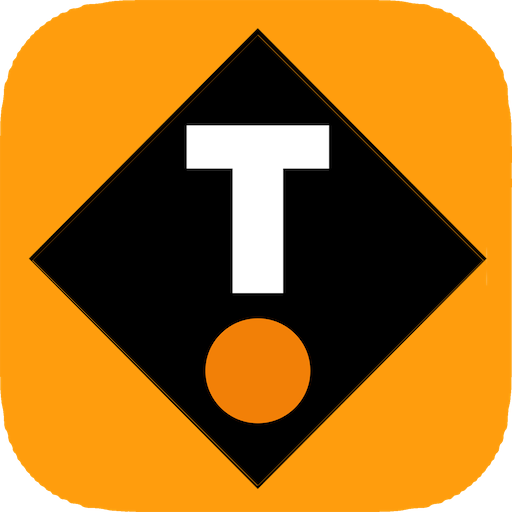
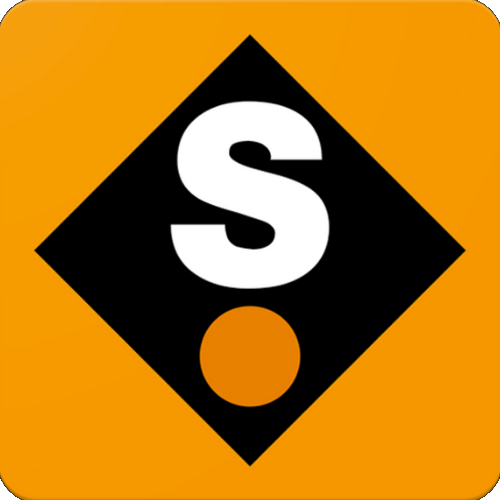
edit index

diff --git a/acl_project/index.html b/acl_project/index.html
@@ -5,7 +5,7 @@
       <meta charset="UTF-8">
       <meta name="viewport" content="width=device-width, initial-scale=1">
       <title>Assumption College Lampang</title>
-      <link rel="icon" type="image/png" sizes="25×25" href="image/acl_logo.png">
+      <link rel="icon" type="image/png" sizes="25×25" href="image/logo_nav/acl_logo.png">
       <link rel="stylesheet" href="bootstrap-5.0.2/dist/css/bootstrap.min.css">
       <!-- <link rel="stylesheet" href="css/buttom.css"> -->
       <link rel="stylesheet" href="css/tab_menu.css">
@@ -130,14 +130,19 @@
             </div>
             <div class="carousel-inner">
               <div class="carousel-item active">
-                <a href="https://www.acl.ac.th/about-acl_brother.html">
+                <a href="https://swis.acl.ac.th/html_edu/cgi-bin/main_php/print_news.php?id_news=2908" target="_blank">
                   <img src="image/slider/20211004.jpeg" class="d-block w-100" >
                 </a>
               </div>
               <div class="carousel-item">
-                <img src="image/slider/20211005.jpeg" class="d-block w-100">
-                <div class="carousel-caption d-none d-md-block">
-                  <h5 class="content-slide">ติวออนไลน์เพื่อสอบตรงเข้าสู่มหาวิทยาลัยในฝัน ในวิชา GAT PAT SAT</h5>
+                <a href="https://swis.acl.ac.th/html_edu/cgi-bin/main_php/print_news.php?id_news=2908" target="_blank">
+                  <img src="image/slider/20211005.jpeg" class="d-block w-100">
+                </a>
+                <div class="carousel-caption d-md-block">
+                  <span class="content-slide">
+                    ติวออนไลน์เพื่อสอบตรงเข้าสู่มหาวิทยาลัยในฝัน ในวิชา GAT PAT SAT
+                    <a href="https://swis.acl.ac.th/html_edu/cgi-bin/main_php/print_news.php?id_news=2908" target="_blank">[ดูรายละเอียด]</a>
+                  </span>
                 </div>
               </div>
               <div class="carousel-item">
@@ -153,10 +158,26 @@
                 <img src="image/slider/20210527.jpeg" class="d-block w-100">
               </div>
               <div class="carousel-item">
-                <img src="image/slider/20210513.jpeg" class="d-block w-100">
+                <a href="https://swis.acl.ac.th/html_edu/cgi-bin/main_php/print_news.php?id_news=2246" target="_blank">
+                  <img src="image/slider/20210513.jpeg" class="d-block w-100">
+                </a>
+                <div class="carousel-caption d-md-block">
+                  <span class="content-slide">
+                    คะแนนสอบประเมินคุณภาพผู้เรียน (National Test: NT)
+                    <a href="https://swis.acl.ac.th/html_edu/cgi-bin/main_php/print_news.php?id_news=2246" target="_blank">[ดูรายละเอียด]</a>
+                  </span>
+                </div>
               </div>
               <div class="carousel-item">
-                <img src="image/slider/20201022.jpeg" class="d-block w-100">
+                <a href="https://swis.acl.ac.th/html_edu/cgi-bin/main_php/print_informed.php?id_count_inform=188" target="_blank">
+                  <img src="image/slider/20201022.jpeg" class="d-block w-100">
+                </a>
+                <div class="carousel-caption d-md-block">
+                  <span class="content-slide">
+                    คะแนนสอบประเมินคุณภาพผู้เรียน (National Test: NT)
+                    <a href="https://swis.acl.ac.th/html_edu/cgi-bin/main_php/print_informed.php?id_count_inform=188" target="_blank">[ดูรายละเอียด]</a>
+                  </span>
+                </div>
               </div>
             </div>
             <button class="carousel-control-prev" type="button" data-bs-target="#carouselExampleIndicators" data-bs-slide="prev">
@@ -172,12 +193,11 @@
       </div>
       <!-- end slider -->
 
-    <!-- start button menu -->
+    <!-- start button menuSWIS LOGIN Student Dashboard -->
     <div class="container-xl text-center" style="margin-top: 2rem;" >
       <a href="https://swis.acl.ac.th/" target="_blank" class="button-menu">
         <button type="button" class="btn btn-outline-primary button-menu">
-          <img src="/image/button-menu/swis.png
-          " class="rounded mx-auto d-block img-menu">
+          <img src="/image/button-menu/swis.png" class="rounded mx-auto d-block img-menu">
           SWIS LOGIN
         </button>
       </a>
@@ -300,11 +320,11 @@
         </div>
         <div class="tab-content" id="pills-tabContent">
           <div class="tab-pane fade show active" id="pills-home" role="tabpanel" aria-labelledby="pills-home-tab">
-            <h3 class="text-center" style="margin-top: 2rem; color: #737373;">ACL PHOTO GALLERY</h3>
+            <h3 class="text-center" style="margin-top: 1rem; color: #737373;">ACL PHOTO GALLERY</h3>
             <h1 class="text-center" style="margin-bottom: 2rem; color: #2E3192;">รูปภาพแกลเลอรี่ ACL</h1>
             <div class="swis-photo" >
               <iframe src="https://swis.acl.ac.th/html_edu/cgi-bin/picture_school/print_title_picture_school.php" name="content" width="100%" height="700" > </iframe>
-              <a class="see-more" href="https://swis.acl.ac.th/html_edu/cgi-bin/picture_school/print_picture_school_all.php"> see more >> </a>
+              <a class="see-more" href="https://swis.acl.ac.th/html_edu/cgi-bin/picture_school/print_picture_school_all.php" target="_blank"> see more >> </a>
           </div>
           </div>
           <div class="tab-pane fade" id="pills-profile" role="tabpanel" aria-labelledby="pills-profile-tab">
@@ -422,10 +442,10 @@
             <!-- Grid column -->
 
             <!-- Grid column -->
-            <div class="col-md-2 mx-auto">
+            <div class="col-md-2 mx-auto footer-tab">
 
               <!-- Links -->
-              <h5 class="font-weight-bold text-uppercase mt-3 mb-4">ACL MENU</h5>
+              <h5 class="font-weight-bold text-uppercase mt-3 mb-4 ">ACL MENU</h5>
               <ul class="list-unstyled">
                 <li>
                   <a href="https://www.acl.ac.th/about-acl_brother.html" id="text-footer">ทำเนียบผู้อำนวยการ</a>
@@ -472,7 +492,7 @@
             <!-- Grid column -->
 
             <!-- Grid column -->
-            <div class="col-md-2 mx-auto">
+            <div class="col-md-2 mx-auto footer-tab">
 
               <!-- Links -->
               <h5 class="font-weight-bold text-uppercase mt-3 mb-4">Teachers & Staff</h5>
@@ -502,7 +522,7 @@
             <!-- Grid column -->
 
             <!-- Grid column -->
-            <div class="col-md-2 mx-auto">
+            <div class="col-md-2 mx-auto footer-tab-student">
 
               <!-- Links -->
               <h5 class="font-weight-bold text-uppercase mt-3 mb-4">Students</h5>
@@ -532,7 +552,7 @@
             <!-- Grid column -->
 
               <!-- Grid column -->
-              <div class="col-md-2 mx-auto">
+              <div class="col-md-2 mx-auto footer-tab">
 
                 <!-- Links -->
                 <h5 class="font-weight-bold text-uppercase mt-3 mb-4">Service</h5>
@@ -566,7 +586,7 @@
         <!-- Footer Links -->
 
         <!-- Copyright -->
-        <div class="footer-copyright text-center p-3" >© ACL all rights reserved </div>
+        <!-- <div class="footer-copyright text-center p-3" >© ACL all rights reserved </div> -->
         <!-- Copyright -->
 
       </footer>

diff --git a/acl_project/sreach_swis.html b/acl_project/sreach_swis.html
@@ -4,7 +4,7 @@
     <meta charset="UTF-8">
     <meta http-equiv="X-UA-Compatible" content="IE=edge">
     <meta name="viewport" content="width=device-width, initial-scale=1.0">
-    <link rel="icon" type="image/png" sizes="25×25" href="image/acl_logo.png">
+    <link rel="icon" type="image/png" sizes="25×25" href="image/logo_nav/acl_logo.png">
     <title>Document</title>
     <link rel="stylesheet" href="bootstrap-5.0.2/dist/css/bootstrap.min.css">
     <link rel="stylesheet" href="css/index.css">

diff --git a/acl_project/css/slider.css b/acl_project/css/slider.css
@@ -15,3 +15,17 @@
     transition: all 0.3s ease-in-out;
 }
 
+.content-slide{
+    padding: 5px;
+    border-radius: 5px;
+    background-color: rgba(0, 0, 0, 0.377);
+    
+}
+
+@media screen and (max-width: 768px) {
+    .content-slide{
+       font-size: 6px;
+        
+    }
+}
+

diff --git a/acl_project/css/footer.css b/acl_project/css/footer.css
@@ -23,3 +23,13 @@ a#text-footer {
 a#text-footer:hover {
     color: rgba(255, 255, 255, 0.61);
 }
+
+@media screen and (max-width: 768px) {
+    .footer-tab {
+        width: 15rem;
+    }
+    .footer-tab-student{
+        margin-left: 234;
+        width: 18rem;
+    }
+   }

diff --git a/acl_project/css/nav.css b/acl_project/css/nav.css
@@ -16,7 +16,7 @@
   
 }
 
-@media screen and (min-width: 768px) {
+@media screen and (min-width: 978px) {
    .dropdown:hover .dropdown-menu {
     display: block;
   }
